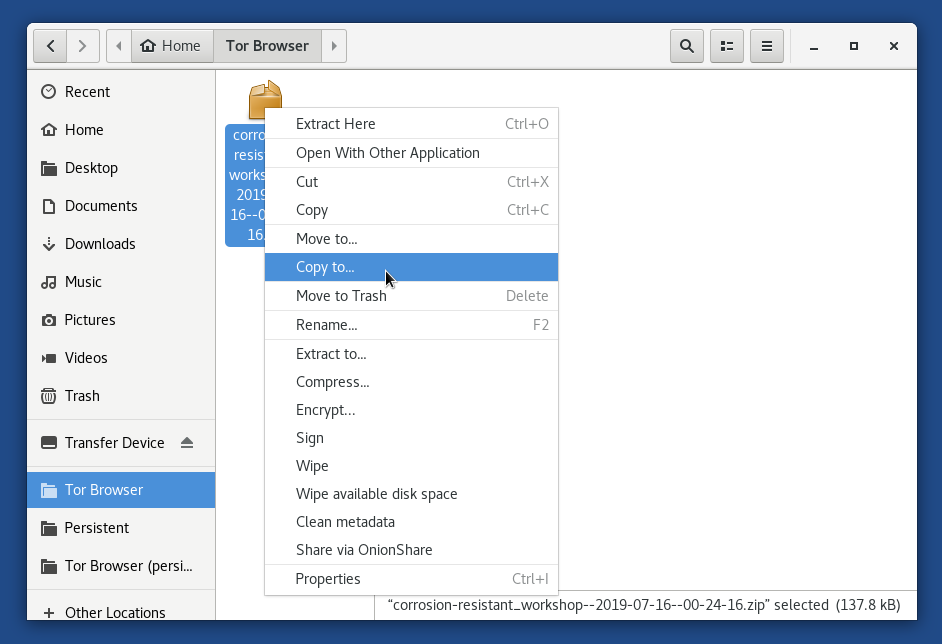
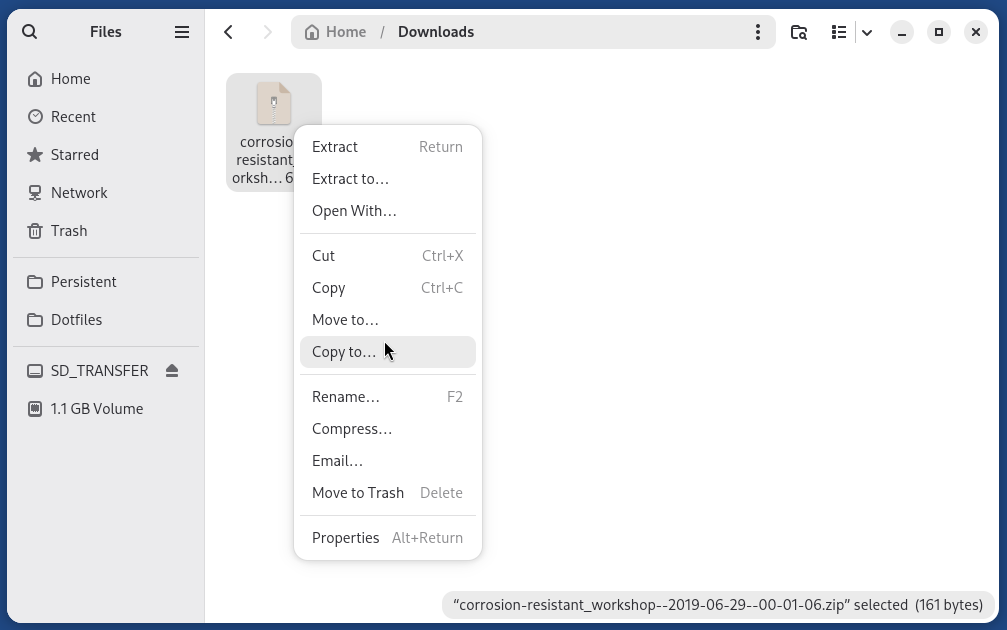
update svs instructions for downloading and transferring files to reflect Tails 6/7

diff --git a/docs/journalist/svs.rst b/docs/journalist/svs.rst
@@ -21,37 +21,26 @@ A dialog box with two choices will appear, **Cancel** and **Save file**.
 
 |Download selected|
 
-Click **Save file**. In the save dialog, select one of the two folders
-called **Tor Browser** and **Tor Browser (persistent)**.
-Note that the names may be abbreviated; you can view the full name by hovering
-the mouse over the shortcut.
+Click **Save file**. In the save dialog, you can select the download location. The default location is the **Downloads** folder. You may also wish to save it to the **Persistent** folder, visible in the shortcuts column. Note that the name may be abbreviated; you can view the full name by hovering the mouse over the shortcut.
 
 |Download to sandbox folder|
 
 The difference between these two folders is as follows:
 
-- **Tor Browser**: Downloads saved to this folder will be stored in memory,
+- **Downloads**: Downloads saved to this folder will be stored in memory,
   which means that they will only be available for the duration of your current
-  Tails session. The full path to this folder is ``/home/amnesia/Tor Browser``.
+  Tails session. The full path to this folder is ``/home/amnesia/Downloads``.
 
-- **Tor Browser (persistent)**: Downloads saved to this folder will be stored
+- **Persistent**: Downloads saved to this folder will be stored
   on your Tails USB drive in the special persistent volume that is only
   available if you have unlocked it on the Tails welcome screen. The full path
-  to this folder is ``/home/amnesia/Persistent/Tor Browser``.
+  to this folder is ``/home/amnesia/Persistent``.
 
 Unless you have a reason to store encrypted submissions on the
-*Journalist Workstation*, we recommend using the non-persistent "Tor Browser"
+*Journalist Workstation*, we recommend using the non-persistent "Downloads"
 folder. In the recommended process, you will now move the submission to the
 *Secure Viewing Station*, and there is no need to leave a persistent copy
 behind.
-
-.. important:: Attempting to download files to any other folder will fail.
-  Tails only permits Tor Browser to access these two folders, so that
-  even if your browser is compromised by malware, attackers cannot easily gain
-  access to other data stored on the same computer.
-
-  See the Tails guide to `Browsing the web with Tor Browser <https://tails.net/doc/anonymous_internet/Tor_Browser/index.en.html>`__
-  for more information.
 
 Step 2: Copy the encrypted submission to the *Transfer Device*
 ~~~~~~~~~~~~~~~~~~~~~~~~~~~~~~~~~~~~~~~~~~~~~~~~~~~~~~~~~~~~~~
@@ -61,14 +50,7 @@ USB stick you intend to use to transfer the documents from your
 *Journalist Workstation* to the *Secure Viewing Station*. This storage
 device is known as your *Transfer Device*.
 
-.. note::
-
-   If the *Transfer Device* was set up according to our recommendations, you
-    will be prompted for a decryption passphrase on the *Journalist
-    Workstation* and the *Secure Viewing Station* before being able to use it
-    in a given session. We recommend storing this passphrase in your own
-    personal password manager (e.g., on your smartphone), so that it is readily
-    accessible to you whenever you need it.
+.. note:: If the *Transfer Device* was set up according to our recommendations, you will be prompted for a decryption passphrase on the *Journalist Workstation* and the *Secure Viewing Station* before being able to use it in a given session. We recommend storing this passphrase in your own personal password manager (e.g., on your smartphone), so that it is readily accessible to you whenever you need it.
 
 You can right-click the file and select **Copy to**, then select the *Transfer
 Device* in the **Select Copy Destination** dialog.
@@ -77,8 +59,8 @@ Device* in the **Select Copy Destination** dialog.
 
 |Copy to transfer device 2|
 
-This will leave a redundant copy behind in the Tor Browser folder. If you have
-downloaded the file to the non-persistent "Tor Browser" folder (as
+This will leave a redundant copy behind in the "Downloads" folder. If you have
+downloaded the file to the non-persistent "Downloads" folder (as
 recommended), the redundant copy will disappear when the computer is shut down
 or rebooted.
 
@@ -121,8 +103,8 @@ the sidebar, and select "Empty Trash".
 To decrypt and view documents or messages, return to your **Persistent** folder.
 All key actions are initiated by double-clicking:
 
-- Double-clicking archives in ZIP or gzip format will open the **Archive Manager**
-  application (called ``file-roller`` on the command line), which allows you to extract the contents.
+- Double-clicking archives in ZIP or gzip format will invoke the **File Roller**
+  application to extract the contents tot the same location.
 
 - On Tails 4, double-clicking files that end in ``.gpg`` will attempt to decrypt
   the contents to the same directory. If you have configured a passphrase for your
@@ -143,7 +125,7 @@ a document with an incorrect or missing file extension.
 
 .. tip::
 
-   Always extract gzip archives with the *Archive Manager* application, which is
+   Always extract gzip archives with the *File Roller* application, which is
    the default when double-clicking the archive. Other methods may not preserve
    the filename contained in the archive.
 
@@ -154,11 +136,8 @@ a document with an incorrect or missing file extension.
    problems when attempting to open the file due to the loss of its file
    extension.
 
-When you double-click an archive to open it, you should see it in the *Archive Manager* application.
 
-|Opened archive|
-
-Click the **Extract** button to unpack the archive. Navigate to the folder
+Once you have extracted the archive, navigate to the folder
 containing the encrypted document message or document (ends with ``.gpg``).
 
 Double-click the file to decrypt it. On Tails 5.1 or greater, this will launch
@@ -172,8 +151,6 @@ The decrypted file will have the same filename, but without ``.gpg`` at the end.
 You can now double-click on the decrypted file to open it in its
 default application.
 
-|Opened document|
-
 .. _working_with_documents:
 
 .. |Load external content| image:: ../images/manual/screenshots/journalist-clicks_on_source_and_selects_documents.png
@@ -181,19 +158,16 @@ default application.
 .. |Download selected| image:: ../images/manual/tbb_Document5.png
    :alt: Dialog box asking for confirmation before saving a file.
 .. |Download to sandbox folder| image:: ../images/manual/tbb_Document6.png
-   :alt: Files application displaying the name of the file to be saved and a 'Save' button. Two shortcuts named 'Tor Browser' and 'Tor Browser (...' are visible in the list of places on the left.
+   :alt: Files application displaying the name of the file to be saved and a 'Save' button. A shortcut for 'Persistent' is visible in the list of places on the left.
 .. |Copy to transfer device 1| image:: ../images/manual/copy-to-transfer-device-1.png
    :alt: Files application displaying the menu that opens after a right-click on a file. The 'Copy to...' entry is selected.
 .. |Copy to transfer device 2| image:: ../images/manual/copy-to-transfer-device-2.png
    :alt: Dialog box that opens after selecting 'Copy to', the Transfer Device is selected in the list of places on the left.
 .. |Copy files to persistent| image:: ../images/manual/viewing1.png
    :alt: Files application displaying the content of the Transfer Device. A file is being dragged over a shortcut named 'Persistent' in the list of places on the left.
-.. |Opened archive| image:: ../images/manual/tails-archive.png
-   :alt: Archive Manager application displaying an archive and the 'Extract' button on the top left.
+
 .. |Decrypted documents| image:: ../images/manual/viewing3.png
    :alt: Files application displaying a decrypted file next to its encrypted version.
-.. |Opened document| image:: ../images/manual/viewing4.png
-   :alt: Text editor displaying a decrypted message. The file that was double-clicked is visible below in the Files application.
 .. |br| raw:: html
 
     <br>
